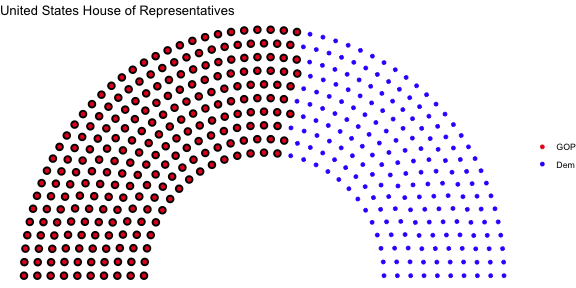
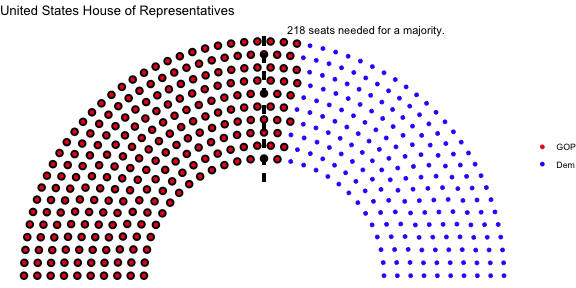
update readme pt 100000

Changed region(s): [[0.0312, 0.0938, 0.875, 0.9375], [0.6875, 0.9062, 0.7188, 0.9375], [0.4375, 0.5938, 0.4688, 0.625]]

diff --git a/README.md b/README.md
@@ -39,15 +39,15 @@ If you have any issues, please note the problem and inform us!
 
 ```r
 #filter the election data for the most recent US House of Representatives
-us_congress <- election_data %>%
+us_house <- election_data %>%
   filter(country == "USA" &
     year == 2016 &
     house == "Representatives")
 
-us_congress1 <- parliament_data(election_data = us_congress,
+us_house <- parliament_data(election_data = us_house,
   type = "semicircle",
   parl_rows = 10,
-  party_seats = us_congress$seats)
+  party_seats = us_house$seats)
 
 us_senate <- election_data %>%
   filter(country == "USA" &
@@ -63,19 +63,21 @@ us_senate <- parliament_data(
 
 
 ```r
-ggplot(us_congress1, aes(x, 
+ggplot(us_house, aes(x, 
                          y, 
                          colour = party_short)) +
   geom_parliament_seats() + 
-  #highlight the government with black encircling
+  #highlight the party in control of the House with a black line
   geom_highlight_government(government == 1) +
+  #draw majority threshold
+  draw_majoritythreshold(n = 218, label = TRUE, type = 'semicircle')+
   #set theme_ggparliament
   theme_ggparliament() +
   #other aesthetics
   labs(colour = NULL, 
        title = "United States House of Representatives") +
-  scale_colour_manual(values = us_congress1$colour, 
-                      limits = us_congress1$party_short) 
+  scale_colour_manual(values = us_house$colour, 
+                      limits = us_house$party_short) 
 ```
 
 ![plot of chunk unnamed-chunk-4](figure/unnamed-chunk-4-1.png)
